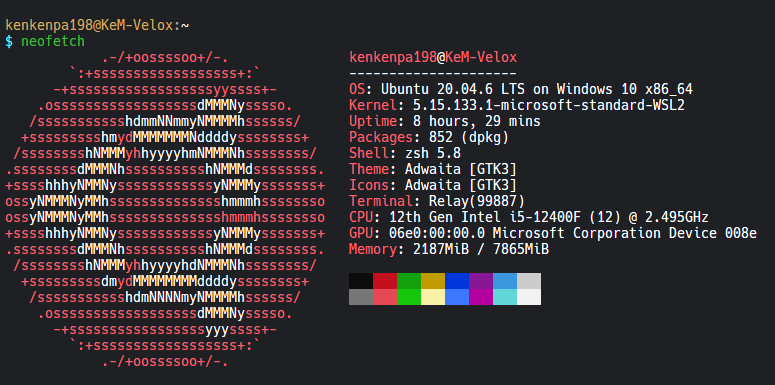
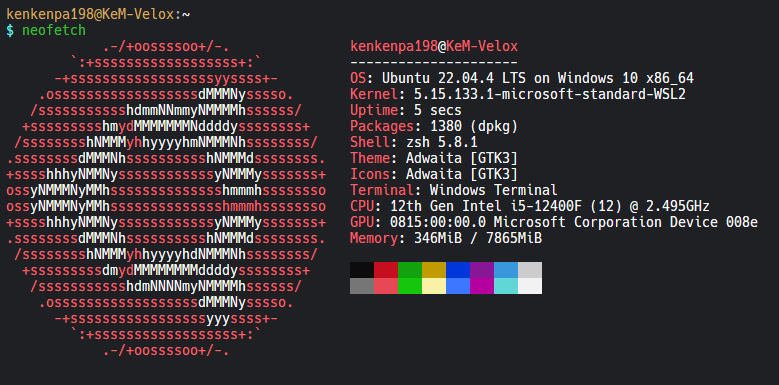
[update]update my-snippets.md

Changed region(s): [[0.0, 0.0, 0.991, 0.9662]]

diff --git a/docs/_posts/2024-01-13-my-snippets.md b/docs/_posts/2024-01-13-my-snippets.md
@@ -148,7 +148,7 @@ lastmod: 2024-03-09
   ```shell
   # ex.
   $ cat /etc/issue
-  Ubuntu 20.04.6 LTS \n \l
+  Ubuntu 22.04.4 LTS \n \l
   ```
 
 - `os-release` で確認する
@@ -160,18 +160,18 @@ lastmod: 2024-03-09
   ```shell
   # ex.
   $ cat /etc/os-release
+  PRETTY_NAME="Ubuntu 22.04.4 LTS"
   NAME="Ubuntu"
-  VERSION="20.04.6 LTS (Focal Fossa)"
+  VERSION_ID="22.04"
+  VERSION="22.04.4 LTS (Jammy Jellyfish)"
+  VERSION_CODENAME=jammy
   ID=ubuntu
   ID_LIKE=debian
-  PRETTY_NAME="Ubuntu 20.04.6 LTS"
-  VERSION_ID="20.04"
   HOME_URL="https://www.ubuntu.com/"
   SUPPORT_URL="https://help.ubuntu.com/"
   BUG_REPORT_URL="https://bugs.launchpad.net/ubuntu/"
   PRIVACY_POLICY_URL="https://www.ubuntu.com/legal/terms-and-policies/privacy-policy"
-  VERSION_CODENAME=focal
-  UBUNTU_CODENAME=focal
+  UBUNTU_CODENAME=jammy
   ```
 
 - neofetch コマンドで確認する
